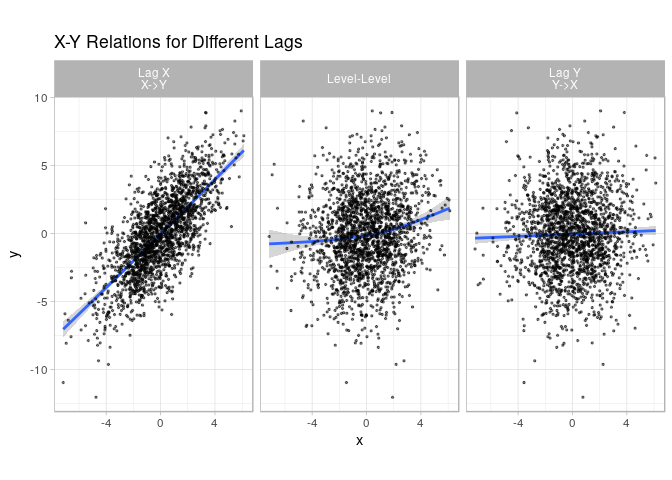
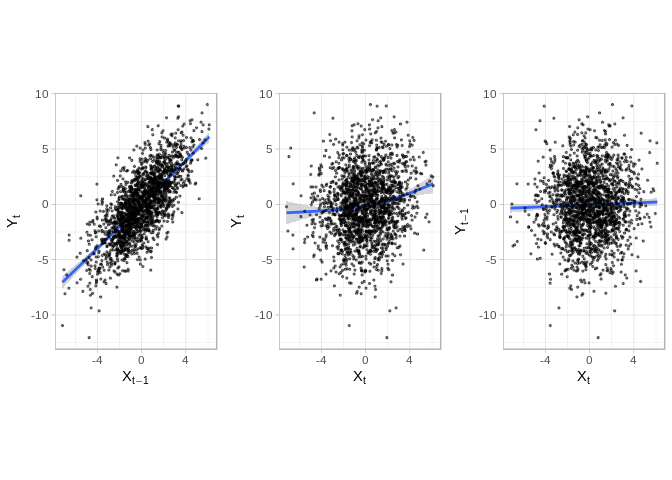
updated readme plots
also added travis to rbuildignore

diff --git a/README.md b/README.md
@@ -53,23 +53,37 @@ y <- y[-1]
 
 ``` r
 library(ggplot2)
+library(gridExtra)
 theme_set(theme_light())
 
-dt <- do.call(rbind, list(
-  data.frame(x = x, y = y, dir = "Level-Level", stringsAsFactors = FALSE),
-  data.frame(x = x, y = c(NA, y[1:(length(y) - 1)]), dir = "Lag Y\nY->X", stringsAsFactors = FALSE),
-  data.frame(x = c(NA, x[1:(length(x) - 1)]), y = y, dir = "Lag X\nX->Y", stringsAsFactors = FALSE)
-))
-dt$dir <- factor(dt$dir, levels = c("Lag X\nX->Y", "Level-Level", "Lag Y\nY->X"))
-
-
-ggplot(dt, aes(x = x, y = y)) + 
+# Lagged X-Plot
+p1 <- ggplot(data.frame(x = c(NA, x[1:(length(x) - 1)]), y = y), aes(x, y)) +
   geom_smooth() +
   geom_point(alpha = 0.5, size = 0.5) +
-  facet_grid(~dir) +
-  theme_light() +
-  labs(title = "X-Y Relations for Different Lags") +
-  coord_fixed(ratio = 1)
+  labs(x = expression(X[t - 1]), y = expression(Y[t])) +
+  coord_fixed(1) +
+  scale_x_continuous(limits = range(x)) +
+  scale_y_continuous(limits = range(y))
+
+# X-Y Plot
+p2 <- ggplot(data.frame(x = x, y = y), aes(x, y)) +
+  geom_smooth() +
+  geom_point(alpha = 0.5, size = 0.5) +
+  labs(x = expression(X[t]), y = expression(Y[t])) +
+  coord_fixed(1) +
+  scale_x_continuous(limits = range(x)) +
+  scale_y_continuous(limits = range(y))
+
+# Lagged Y Plot
+p3 <- ggplot(data.frame(x = x, y = c(NA, y[1:(length(y) - 1)])), aes(x, y)) +
+  geom_smooth() +
+  geom_point(alpha = 0.5, size = 0.5) +
+  labs(x = expression(X[t]), y = expression(Y[t - 1])) +
+  coord_fixed(1) +
+  scale_x_continuous(limits = range(x)) +
+  scale_y_continuous(limits = range(y))
+
+a <- grid.arrange(p1, p2, p3, ncol = 3)
 ```
 
 ![](README-contemp_plot-1.png)
